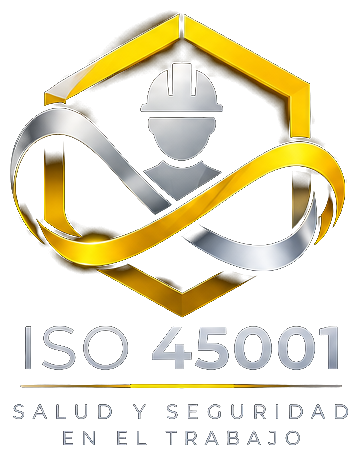
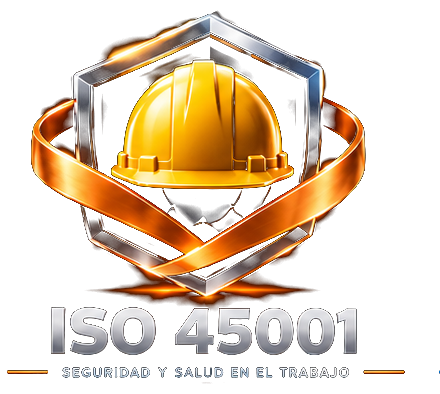
Se añaden logotipos y se ajustan espacios entre bloques

diff --git a/index.html b/index.html
@@ -33,13 +33,13 @@
   .wrap{max-width:1680px;margin:0 auto;padding:0 40px;position:relative;z-index:1;}
 
   /* ---- Franja de normas/escuelas en movimiento (inspirada en la fila de logos de AMD) ---- */
-  .marquee-wrap{overflow:hidden;margin:0 40px 8px;position:relative;z-index:1;-webkit-mask-image:linear-gradient(90deg,transparent,#000 8%,#000 92%,transparent);mask-image:linear-gradient(90deg,transparent,#000 8%,#000 92%,transparent);}
+  .marquee-wrap{overflow:hidden;margin:52px 40px 46px;position:relative;z-index:1;-webkit-mask-image:linear-gradient(90deg,transparent,#000 8%,#000 92%,transparent);mask-image:linear-gradient(90deg,transparent,#000 8%,#000 92%,transparent);}
   .marquee-row{display:flex;gap:40px;white-space:nowrap;width:max-content;padding:6px 0;}
   .marquee-row span{font-family:'Space Grotesk',sans-serif;font-size:14px;font-weight:700;color:var(--muted);opacity:.55;letter-spacing:.2px;flex-shrink:0;}
-  .marquee-row.logos{gap:56px;align-items:center;}
-  .marquee-row.logos img{height:56px;width:auto;flex-shrink:0;opacity:.92;filter:drop-shadow(0 2px 6px rgba(0,0,0,.15));}
-  .marquee-row.right{animation:marqueeRight 90s linear infinite;}
-  .marquee-row.left{animation:marqueeLeft 100s linear infinite;margin-top:4px;}
+  .marquee-row.logos{gap:170px;align-items:center;}
+  .marquee-row.logos img{height:150px;width:auto;flex-shrink:0;opacity:.95;filter:drop-shadow(0 2px 6px rgba(0,0,0,.15));}
+  .marquee-row.right{animation:marqueeRight 16s linear infinite;}
+  .marquee-row.left{animation:marqueeLeft 14s linear infinite;margin-top:4px;}
   .marquee-wrap:hover .marquee-row{animation-play-state:paused;}
   @keyframes marqueeRight{from{transform:translateX(-50%);}to{transform:translateX(0);}}
   @keyframes marqueeLeft{from{transform:translateX(0);}to{transform:translateX(-50%);}}
@@ -69,7 +69,7 @@
   @media(max-width:900px){.navbar .burger{display:inline-flex;}}
 
   /* ---- HERO: carrusel a todo lo ancho, crossfade, 5 fotos reales ---- */
-  .hero{height:640px;position:relative;z-index:1;overflow:hidden;background:#040605;border-bottom:1px solid var(--line);}
+  .hero{height:640px;position:relative;z-index:1;overflow:hidden;background:#040605;}
   .hero-slide{position:absolute;inset:0;background-size:cover;background-position:center 40%;opacity:0;transform:scale(1);transition:opacity 1.4s ease,transform 7s ease;}
   .hero-slide.active{opacity:1;z-index:1;transform:scale(1.06);}
   .hero-slide:before{content:"";position:absolute;inset:0;background:
@@ -89,7 +89,7 @@
   .pause{width:34px;height:34px;border-radius:50%;border:1px solid rgba(255,255,255,.25);background:rgba(0,0,0,.3);color:#fff;cursor:pointer;font-size:13px;line-height:1;}
 
   /* ---- MÉTRICAS (datos reales, calculados desde localStorage) ---- */
-  .metrics{display:grid;grid-template-columns:repeat(4,1fr);border-bottom:1px solid var(--line);position:relative;z-index:1;}
+  .metrics{display:grid;grid-template-columns:repeat(4,1fr);border-bottom:1px solid var(--line);position:relative;z-index:1;margin-top:52px;}
   .metric{padding:26px 40px;border-right:1px solid var(--line);}
   .metric:last-child{border-right:none;}
   .metric-label{font-family:'JetBrains Mono',monospace;font-size:10.5px;letter-spacing:.1em;text-transform:uppercase;color:var(--muted);margin-bottom:10px;}
@@ -334,12 +334,20 @@
     <div class="marquee-row right logos">
       <img src="assets/img/badges/iso-9001-badge.png" alt="ISO 9001:2015 — Gestión de la Calidad">
       <img src="assets/img/badges/iso-14001-badge.png" alt="ISO 14001:2015 — Gestión Ambiental">
-      <img src="assets/img/badges/iso-45001-badge.png" alt="ISO 45001:2018 — Salud y Seguridad en el Trabajo">
+      <img src="assets/img/badges/iso-45001-badge.png" alt="ISO 45001:2018 — Seguridad y Salud en el Trabajo">
       <img src="assets/img/badges/iso-37001-badge.png" alt="ISO 37001:2025 — Sistema de Gestión Antisoborno">
+      <img src="assets/img/badges/iso-31000-badge.png" alt="ISO 31000 — Gestión de Riesgos">
+      <img src="assets/img/badges/iso-50001-badge.png" alt="ISO 50001 — Gestión de la Energía">
+      <img src="assets/img/badges/iso-22301-badge.png" alt="ISO 22301 — Continuidad del Negocio">
+      <img src="assets/img/badges/iso-27001-badge.png" alt="ISO/IEC 27001 — Seguridad de la Información">
       <img src="assets/img/badges/iso-9001-badge.png" alt="" aria-hidden="true">
       <img src="assets/img/badges/iso-14001-badge.png" alt="" aria-hidden="true">
       <img src="assets/img/badges/iso-45001-badge.png" alt="" aria-hidden="true">
       <img src="assets/img/badges/iso-37001-badge.png" alt="" aria-hidden="true">
+      <img src="assets/img/badges/iso-31000-badge.png" alt="" aria-hidden="true">
+      <img src="assets/img/badges/iso-50001-badge.png" alt="" aria-hidden="true">
+      <img src="assets/img/badges/iso-22301-badge.png" alt="" aria-hidden="true">
+      <img src="assets/img/badges/iso-27001-badge.png" alt="" aria-hidden="true">
     </div>
     <div class="marquee-row left">
       <span>Escuela de Calidad</span>

diff --git a/dashboard-ejecutivo.html b/dashboard-ejecutivo.html
@@ -98,7 +98,7 @@
   .state.err{color:var(--red);}
 
   /* ---- KPIs ---- */
-  .grid4{display:grid;grid-template-columns:repeat(4,1fr);gap:14px;margin-bottom:16px;}
+  .grid4{display:grid;grid-template-columns:repeat(4,1fr);gap:20px;margin-bottom:26px;}
   .kpi{padding:17px 18px;position:relative;overflow:hidden;cursor:pointer;transition:.15s;}
   .kpi:hover{box-shadow:0 10px 26px rgba(24,39,33,.11);}
   html[data-theme="dark"] .kpi:hover{border-color:var(--green);box-shadow:0 10px 30px rgba(0,0,0,.5);transform:translateY(-2px);}
@@ -112,7 +112,7 @@
   html[data-theme="dark"] .kpi .spark span{box-shadow:0 0 8px var(--green2);}
 
   .section{margin-top:16px;}
-  .chartGrid{display:grid;grid-template-columns:1.45fr 1fr;gap:14px;}
+  .chartGrid{display:grid;grid-template-columns:1.45fr 1fr;gap:20px;}
   .cardHead{display:flex;justify-content:space-between;align-items:center;padding:16px 18px 6px;}
   .cardHead h3{margin:0;font-size:14px;font-family:'Space Grotesk',sans-serif;}
   .cardHead span{font-size:10px;color:var(--muted);}

diff --git a/mi-desarrollo.html b/mi-desarrollo.html
@@ -73,7 +73,7 @@
   .role-current b{color:var(--ink);}
 
   /* ---- KPIs ---- */
-  .grid4{display:none;grid-template-columns:repeat(4,1fr);gap:14px;margin-bottom:16px;}
+  .grid4{display:none;grid-template-columns:repeat(4,1fr);gap:20px;margin-bottom:26px;}
   .kpi{padding:17px 18px;position:relative;overflow:hidden;}
   .kpi .label{font-size:9px;letter-spacing:1.4px;color:var(--muted);font-weight:800;text-transform:uppercase;}
   .kpi .value{font-family:'Space Grotesk',sans-serif;font-size:27px;font-weight:800;margin:7px 0 2px;letter-spacing:-1px;}
@@ -83,7 +83,7 @@
 
   .section{margin-top:16px;}
   #routeSection{display:none;}
-  .chartGrid{display:grid;grid-template-columns:1fr 1.3fr;gap:14px;}
+  .chartGrid{display:grid;grid-template-columns:1fr 1.3fr;gap:20px;}
   .cardHead{display:flex;justify-content:space-between;align-items:center;padding:16px 18px 6px;}
   .cardHead h3{margin:0;font-size:14px;font-family:'Space Grotesk',sans-serif;}
   .cardHead span{font-size:10px;color:var(--muted);}

diff --git a/rutas-aprendizaje-pem-excellence-academy.html b/rutas-aprendizaje-pem-excellence-academy.html
@@ -55,7 +55,7 @@
   .card{background:var(--panel);border:1px solid var(--line);border-radius:13px;box-shadow:var(--shadow);transition:.2s;}
   html[data-theme="dark"] .card:hover{border-color:var(--green);transform:scale(1.035);box-shadow:0 14px 32px rgba(0,0,0,.55),0 0 0 1px rgba(34,232,138,.18),0 0 24px rgba(34,232,138,.14);}
 
-  .grid4{display:grid;grid-template-columns:repeat(4,1fr);gap:14px;margin-bottom:18px;}
+  .grid4{display:grid;grid-template-columns:repeat(4,1fr);gap:20px;margin-bottom:26px;}
   .kpi{padding:17px 18px;}
   .kpi .label{font-size:9px;letter-spacing:1.4px;color:var(--muted);font-weight:800;text-transform:uppercase;}
   .kpi .value{font-family:'Space Grotesk',sans-serif;font-size:24px;font-weight:800;margin:7px 0 2px;letter-spacing:-.5px;}

diff --git a/mapa-academico-pem-excellence-academy.html b/mapa-academico-pem-excellence-academy.html
@@ -55,7 +55,7 @@
   .card{background:var(--panel);border:1px solid var(--line);border-radius:13px;box-shadow:var(--shadow);transition:.2s;}
   html[data-theme="dark"] .card:hover{border-color:var(--green);transform:scale(1.035);box-shadow:0 14px 32px rgba(0,0,0,.55),0 0 0 1px rgba(34,232,138,.18),0 0 24px rgba(34,232,138,.14);}
 
-  .grid4{display:grid;grid-template-columns:repeat(4,1fr);gap:14px;margin-bottom:18px;}
+  .grid4{display:grid;grid-template-columns:repeat(4,1fr);gap:20px;margin-bottom:26px;}
   .kpi{padding:17px 18px;}
   .kpi .label{font-size:9px;letter-spacing:1.4px;color:var(--muted);font-weight:800;text-transform:uppercase;}
   .kpi .value{font-family:'Space Grotesk',sans-serif;font-size:27px;font-weight:800;margin:7px 0 2px;letter-spacing:-1px;}
